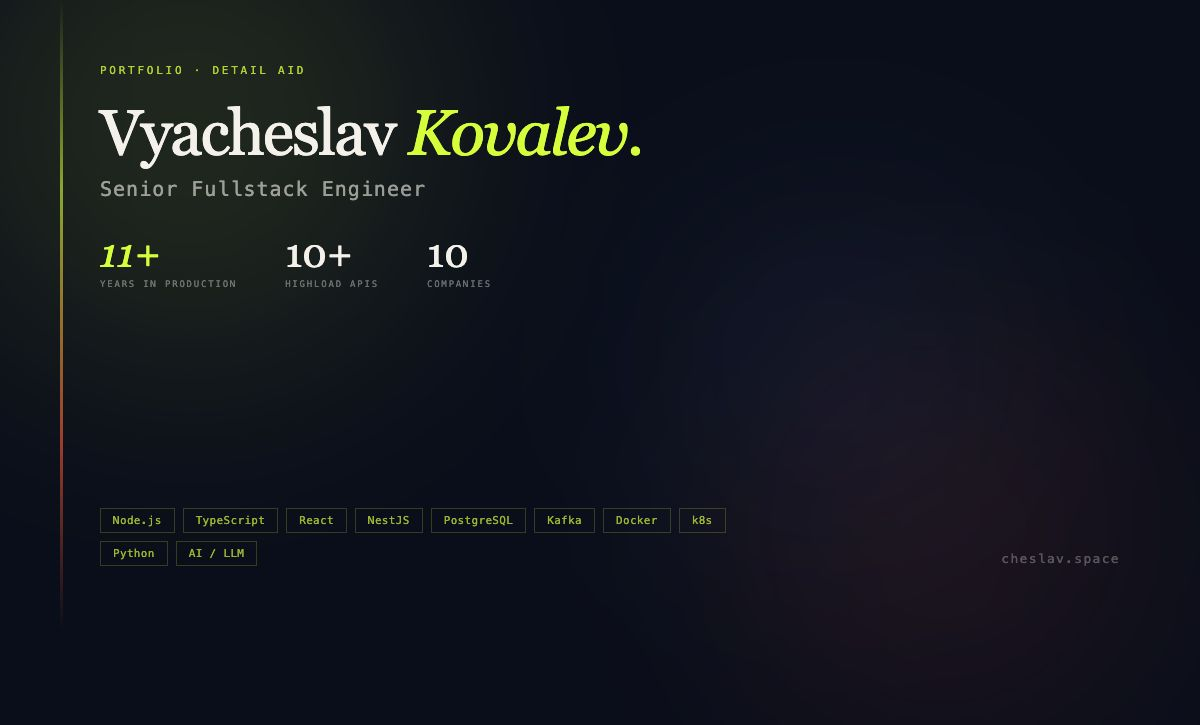
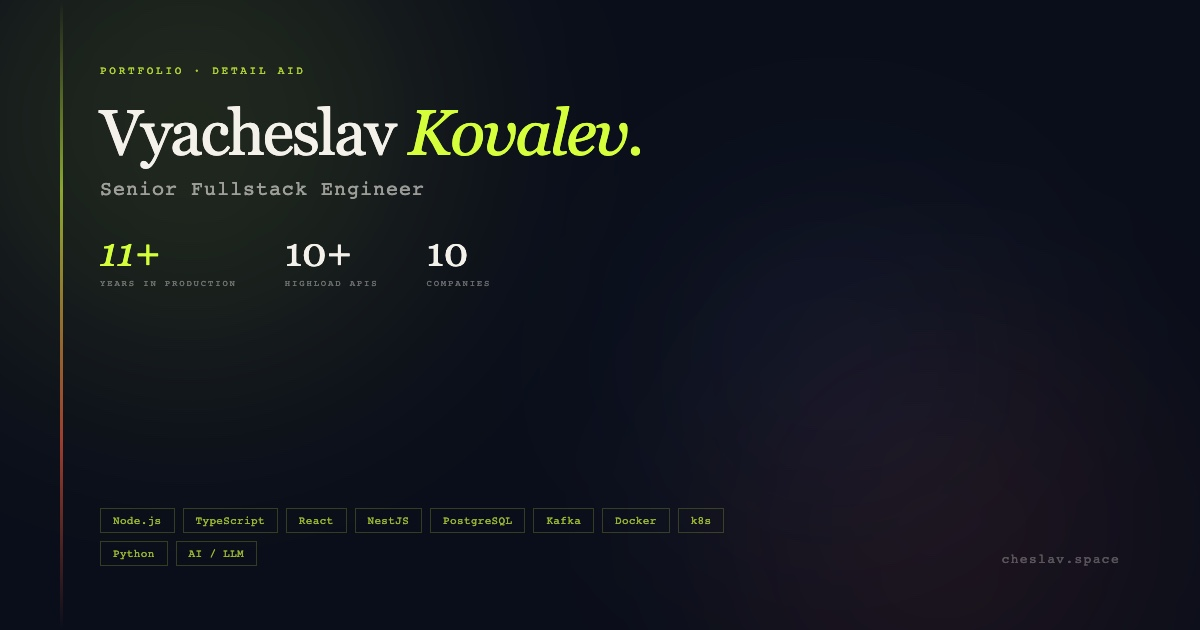
Fix OG image dimensions and add missing meta tags
- Resize og-image to exact 1200x630 (was 1200x725)
- Add og:image:width, og:image:height, og:image:type meta tags
- Add og:site_name for better social previews
- Fixes Telegram not showing link previews

diff --git a/index.html b/index.html
@@ -9,8 +9,12 @@
 <meta property="og:title" content="Vyacheslav Kovalev — Senior Fullstack Engineer">
 <meta property="og:description" content="10+ years building scalable systems. TypeScript, Node.js, React, NestJS, Python. Interactive portfolio with live demos and architecture deep-dives.">
 <meta property="og:image" content="https://cheslav.space/og-image.jpg">
+<meta property="og:image:width" content="1200">
+<meta property="og:image:height" content="630">
+<meta property="og:image:type" content="image/jpeg">
 <meta property="og:url" content="https://cheslav.space">
 <meta property="og:type" content="website">
+<meta property="og:site_name" content="Vyacheslav Kovalev Portfolio">
 <meta name="twitter:card" content="summary_large_image">
 <meta name="twitter:title" content="Vyacheslav Kovalev — Senior Fullstack Engineer">
 <meta name="twitter:description" content="10+ years building scalable systems. TypeScript, Node.js, React, NestJS, Python. Interactive portfolio with live demos.">
